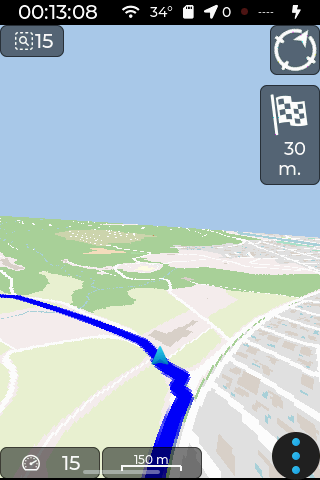
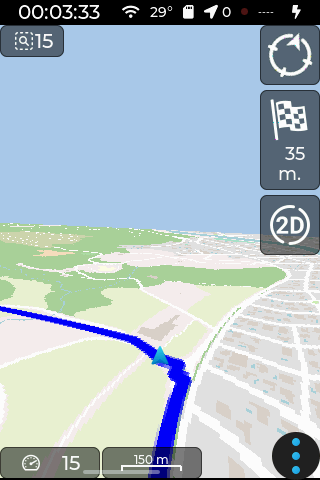
feat(nav): add real-time 3D/2D map toggle button to navigation screen

diff --git a/lib/gui/src/mainScr.cpp b/lib/gui/src/mainScr.cpp
@@ -46,6 +46,8 @@ lv_obj_t *mapTile;
 lv_obj_t *satTrackTile;
 lv_obj_t *btnZoomIn;
 lv_obj_t *btnZoomOut;
+lv_obj_t *btnToggle3D;
+static lv_obj_t *toggle3DImg;
 lv_obj_t *mapImage;
 static lv_image_dsc_t map_img_dsc;
 extern Maps mapView;
@@ -176,6 +178,17 @@ static void async_map_update_cb(void * user_data)
 void triggerMapRedraw()
 {
     lv_async_call(async_map_update_cb, NULL);
+}
+
+/**
+ * @brief Toggle 3D/2D map view event callback.
+ *
+ * @param event LVGL event pointer.
+ */
+static void toggle3DEvent(lv_event_t *event)
+{
+    int32_t current = lv_subject_get_int(&subject_map_3d);
+    lv_subject_set_int(&subject_map_3d, current ? 0 : 1);
 }
 
 /**
@@ -611,6 +624,24 @@ static void nav_data_observer_cb(lv_observer_t *observer, lv_subject_t *subject)
 }
 
 /**
+ * @brief Observer callback for subject_map_3d — toggles pseudo-3D perspective in real time.
+ *
+ * @details Synchronizes mapSet.map3D with the subject value, invalidates the tile cache,
+ *          and schedules an immediate redraw via lv_async_call.
+ *
+ * @param observer Pointer to the observer.
+ * @param subject Pointer to the subject.
+ */
+static void map_3d_observer_cb(lv_observer_t *observer, lv_subject_t *subject)
+{
+    mapSet.map3D = (lv_subject_get_int(subject) != 0);
+    if (toggle3DImg != NULL)
+        lv_img_set_src(toggle3DImg, mapSet.map3D ? toggle3DIconFile : toggle2DIconFile);
+    mapView.updateMap();
+    triggerMapRedraw();
+}
+
+/**
  * @brief Get active tile
  *
  * @details Handles tileview scroll event, updates active tile index, and manages map/widget visibility and bar status.
@@ -995,6 +1026,19 @@ void createMainScr()
     lv_subject_add_observer_obj(&subject_lon, nav_data_observer_cb, navTile, NULL);
     lv_subject_add_observer_obj(&subject_heading, nav_data_observer_cb, navTile, NULL);
     lv_obj_add_event_cb(navTile, updateNavEvent, LV_EVENT_VALUE_CHANGED, NULL);
+    btnToggle3D = lv_obj_create(mapTile);
+    lv_obj_set_size(btnToggle3D, 60, 60);
+    lv_obj_clear_flag(btnToggle3D, LV_OBJ_FLAG_SCROLLABLE);
+    lv_obj_add_style(btnToggle3D, &styleMapWidget, 0);
+    lv_obj_add_flag(btnToggle3D, (lv_obj_flag_t)(LV_OBJ_FLAG_CLICKABLE | LV_OBJ_FLAG_FLOATING));
+    lv_obj_align(btnToggle3D, LV_ALIGN_TOP_RIGHT, 0, 170);
+    toggle3DImg = lv_img_create(btnToggle3D);
+    lv_img_set_zoom(toggle3DImg, buttonScale);
+    lv_obj_center(toggle3DImg);
+    lv_obj_add_flag(btnToggle3D, LV_OBJ_FLAG_HIDDEN);
+    lv_obj_add_event_cb(btnToggle3D, toggle3DEvent, LV_EVENT_CLICKED, NULL);
+    lv_subject_set_int(&subject_map_3d, mapSet.map3D ? 1 : 0);
+    lv_subject_add_observer_obj(&subject_map_3d, map_3d_observer_cb, mapTile, NULL);
     satelliteScr(satTrackTile);
     // timer is permanent — mainScreen is never destroyed
     map_inertia_timer = lv_timer_create(map_inertia_timer_cb, 20, NULL);

diff --git a/lib/gui/src/gpxScr.cpp b/lib/gui/src/gpxScr.cpp
@@ -45,6 +45,10 @@ static void handleGpxLoad(GPXParser &gpx, const char *gpxName)
         if (loadWpt.lat != 0 && loadWpt.lon != 0)
         {
             lv_obj_clear_flag(navTile, LV_OBJ_FLAG_HIDDEN);
+            if (mapSet.vectorMap)
+                lv_obj_clear_flag(btnToggle3D, LV_OBJ_FLAG_HIDDEN);
+            else
+                lv_obj_add_flag(btnToggle3D, LV_OBJ_FLAG_HIDDEN);
 
             lv_label_set_text_fmt(latNav, "%s", latFormatString(loadWpt.lat));
             lv_label_set_text_fmt(lonNav, "%s", lonFormatString(loadWpt.lon));
@@ -56,13 +60,15 @@ static void handleGpxLoad(GPXParser &gpx, const char *gpxName)
             routeDstLat = loadWpt.lat;
             routeDstLon = loadWpt.lon;
             lv_subject_set_int(&subject_rerouting, 1);
-            lv_subject_set_int(&subject_nav_active, 2);
             rerouteRequested.store(true);
 
             lv_obj_send_event(mapTile, LV_EVENT_REFRESH, NULL);
         }
         else
+        {
             lv_obj_add_flag(navTile, LV_OBJ_FLAG_HIDDEN);
+            lv_obj_add_flag(btnToggle3D, LV_OBJ_FLAG_HIDDEN);
+        }
     }
 
     if (gpxTrack)
@@ -76,6 +82,8 @@ static void handleGpxLoad(GPXParser &gpx, const char *gpxName)
             climbAnalyzer.analyze(trackData);
         turnPoints = gpx.getTurnPointsSlidingWindow(18.0f, 10, 70.0f, 5, trackData);
         isTrackLoaded = !trackData.empty();
+        if (isTrackLoaded && mapSet.vectorMap)
+            lv_obj_clear_flag(btnToggle3D, LV_OBJ_FLAG_HIDDEN);
         lv_obj_clear_flag(turnByTurn, LV_OBJ_FLAG_HIDDEN);
         mapView.updateMap();
         mapView.redrawTrack();
@@ -186,6 +194,7 @@ void gpxListEvent(lv_event_t *event)
         else if (row == 0)
         {
             lv_obj_add_flag(navTile, LV_OBJ_FLAG_HIDDEN);
+            lv_obj_add_flag(btnToggle3D, LV_OBJ_FLAG_HIDDEN);
             loadMainScreen();
         }
     }

diff --git a/lib/gui/src/lv_subjects.cpp b/lib/gui/src/lv_subjects.cpp
@@ -31,7 +31,6 @@ lv_subject_t subject_map_state;
 lv_subject_t subject_map_offset_x;
 lv_subject_t subject_map_offset_y;
 lv_subject_t subject_sunrise;
-lv_subject_t subject_nav_active;
 lv_subject_t subject_rerouting;
 lv_subject_t subject_climb_active;
 lv_subject_t subject_climb_dist;
@@ -45,6 +44,7 @@ lv_subject_t subject_climb_avg_grade;
 lv_subject_t subject_climb_total_dist;
 lv_subject_t subject_climb_total_gain;
 lv_subject_t subject_climb_approaching;
+lv_subject_t subject_map_3d;
 
 #ifdef ENABLE_TEMP
 lv_subject_t subject_temp;
@@ -79,7 +79,6 @@ void init_lv_subjects()
     lv_subject_init_int(&subject_map_offset_x, 0);
     lv_subject_init_int(&subject_map_offset_y, 0);
     lv_subject_init_int(&subject_sunrise, 0);
-    lv_subject_init_int(&subject_nav_active, 0);
     lv_subject_init_int(&subject_rerouting, 0);
     lv_subject_init_int(&subject_climb_active, 0);
     lv_subject_init_int(&subject_climb_dist, 0);
@@ -93,6 +92,7 @@ void init_lv_subjects()
     lv_subject_init_int(&subject_climb_total_dist,  0);
     lv_subject_init_int(&subject_climb_total_gain,  0);
     lv_subject_init_int(&subject_climb_approaching, 0);
+    lv_subject_init_int(&subject_map_3d, 0);
 
     #ifdef ENABLE_TEMP
     lv_subject_init_int(&subject_temp, 0);

diff --git a/lib/gui/src/widgets.cpp b/lib/gui/src/widgets.cpp
@@ -427,10 +427,10 @@ static void mini_compass_observer_cb(lv_observer_t *observer, lv_subject_t *subj
 void mapCompassWidget(lv_obj_t *screen)
 {
     miniCompass = lv_obj_create(screen);
-    lv_obj_set_size(miniCompass, 50, 50);
+    lv_obj_set_size(miniCompass, 60, 60);
     lv_obj_clear_flag(miniCompass, LV_OBJ_FLAG_SCROLLABLE);
     lv_obj_add_style(miniCompass, &styleMapWidget, 0);
-    lv_obj_set_align(miniCompass, LV_ALIGN_TOP_RIGHT);
+    lv_obj_align(miniCompass, LV_ALIGN_TOP_RIGHT, 0, 0);
     mapCompassImg = lv_img_create(miniCompass);
     LV_IMG_DECLARE(compassMap);
     lv_img_set_src(mapCompassImg, &compassMap);
@@ -479,7 +479,7 @@ void turnByTurnWidget(lv_obj_t *screen)
     lv_obj_set_flex_flow(turnByTurn, LV_FLEX_FLOW_COLUMN);
     lv_obj_set_flex_align(turnByTurn, LV_FLEX_ALIGN_SPACE_EVENLY, LV_FLEX_ALIGN_CENTER, LV_FLEX_ALIGN_CENTER);
     lv_obj_add_style(turnByTurn, &styleMapWidget, 0);
-    lv_obj_align(turnByTurn, LV_ALIGN_TOP_RIGHT, 0, 60);
+    lv_obj_align(turnByTurn, LV_ALIGN_TOP_RIGHT, 0, 65);
     turnImg = lv_img_create(turnByTurn);
     lv_img_set_src(turnImg, &straight);
     turnDistLabel = lv_label_create(turnByTurn);

diff --git a/lib/gui/src/navScr.hpp b/lib/gui/src/navScr.hpp
@@ -9,6 +9,7 @@
 #pragma once
 
 #include "globalGuiDef.h"
+#include "lv_subjects.hpp"
 #include "../../images/src/navup.h"
 
 /**
@@ -16,10 +17,10 @@
  *
  * @details References to objects used in the navigation tile for displaying waypoint name, latitude, longitude, distance, and navigation arrow.
  */
-extern lv_obj_t *nameNav;    /**< Navigation waypoint name label. */
-extern lv_obj_t *latNav;     /**< Navigation latitude label. */
-extern lv_obj_t *lonNav;     /**< Navigation longitude label. */
-extern lv_obj_t *distNav;    /**< Navigation distance label. */
-extern lv_obj_t *arrowNav;   /**< Navigation arrow image object. */
+extern lv_obj_t *nameNav;       /**< Navigation waypoint name label. */
+extern lv_obj_t *latNav;        /**< Navigation latitude label. */
+extern lv_obj_t *lonNav;        /**< Navigation longitude label. */
+extern lv_obj_t *distNav;       /**< Navigation distance label. */
+extern lv_obj_t *arrowNav;      /**< Navigation arrow image object. */
 
 void navigationScr(_lv_obj_t *screen);

diff --git a/lib/gui/src/lv_subjects.hpp b/lib/gui/src/lv_subjects.hpp
@@ -35,7 +35,6 @@ extern lv_subject_t subject_map_state;
 extern lv_subject_t subject_map_offset_x;
 extern lv_subject_t subject_map_offset_y;
 extern lv_subject_t subject_sunrise;
-extern lv_subject_t subject_nav_active;   // 0=inactive, 1=GPX track, 2=A* route
 extern lv_subject_t subject_rerouting;    // 0=normal, 1=calculating route
 extern lv_subject_t subject_climb_active; // 0=hidden, 1=visible
 extern lv_subject_t subject_climb_dist;   // remaining climb distance (meters, int)
@@ -49,6 +48,7 @@ extern lv_subject_t subject_climb_avg_grade;   // avgGrade * 10 (int)
 extern lv_subject_t subject_climb_total_dist;  // totalDist of segment (meters, int)
 extern lv_subject_t subject_climb_total_gain;  // totalGain of segment (meters, int)
 extern lv_subject_t subject_climb_approaching; // 0=inside climb, 1=approaching start
+extern lv_subject_t subject_map_3d;            // 0=2D view, 1=pseudo-3D view
 
 #ifdef ENABLE_TEMP
 extern lv_subject_t subject_temp;

diff --git a/lib/gui/src/widgets.hpp b/lib/gui/src/widgets.hpp
@@ -64,6 +64,8 @@ static const char *sunsetIconFile     = "/sunset.bin";      /**< Sunset icon */
 static const char *navArrowIconFile   = "/navarrow.bin";    /**< Navigation arrow icon */
 static const char *zoomIconFile       = "/zoom.bin";        /**< Zoom map icon */
 static const char *mapSpeedIconFile   = "/mapspeed.bin";    /**< Speed map icon */
+static const char *toggle3DIconFile   = "/2dview.bin";        /**< 3D map mode toggle icon */
+static const char *toggle2DIconFile   = "/3dview.bin";    /**< 2D map mode toggle icon */
 
 
 void positionWidget(lv_obj_t *screen);

diff --git a/lib/gui/src/mainScr.hpp b/lib/gui/src/mainScr.hpp
@@ -53,6 +53,7 @@ extern lv_obj_t *satTrackTile;   /**< Satellite track screen tile */
  */
 extern lv_obj_t *btnZoomIn;       /**< Toolbar button for zooming in */
 extern lv_obj_t *btnZoomOut;      /**< Toolbar button for zooming out */
+extern lv_obj_t *btnToggle3D;     /**< Toggle 3D/2D map view button */
 extern uint8_t toolBarOffset;     /**< Offset for toolbar positioning */
 extern uint8_t toolBarSpace;      /**< Space between toolbar buttons */
 

diff --git a/lib/gui/src/navScr.cpp b/lib/gui/src/navScr.cpp
@@ -82,4 +82,5 @@ void navigationScr(_lv_obj_t *screen)
     lv_obj_align(arrowNav, LV_ALIGN_CENTER, 0, 100);
     lv_img_set_zoom(arrowNav, iconScale);
 #endif
+
 }
